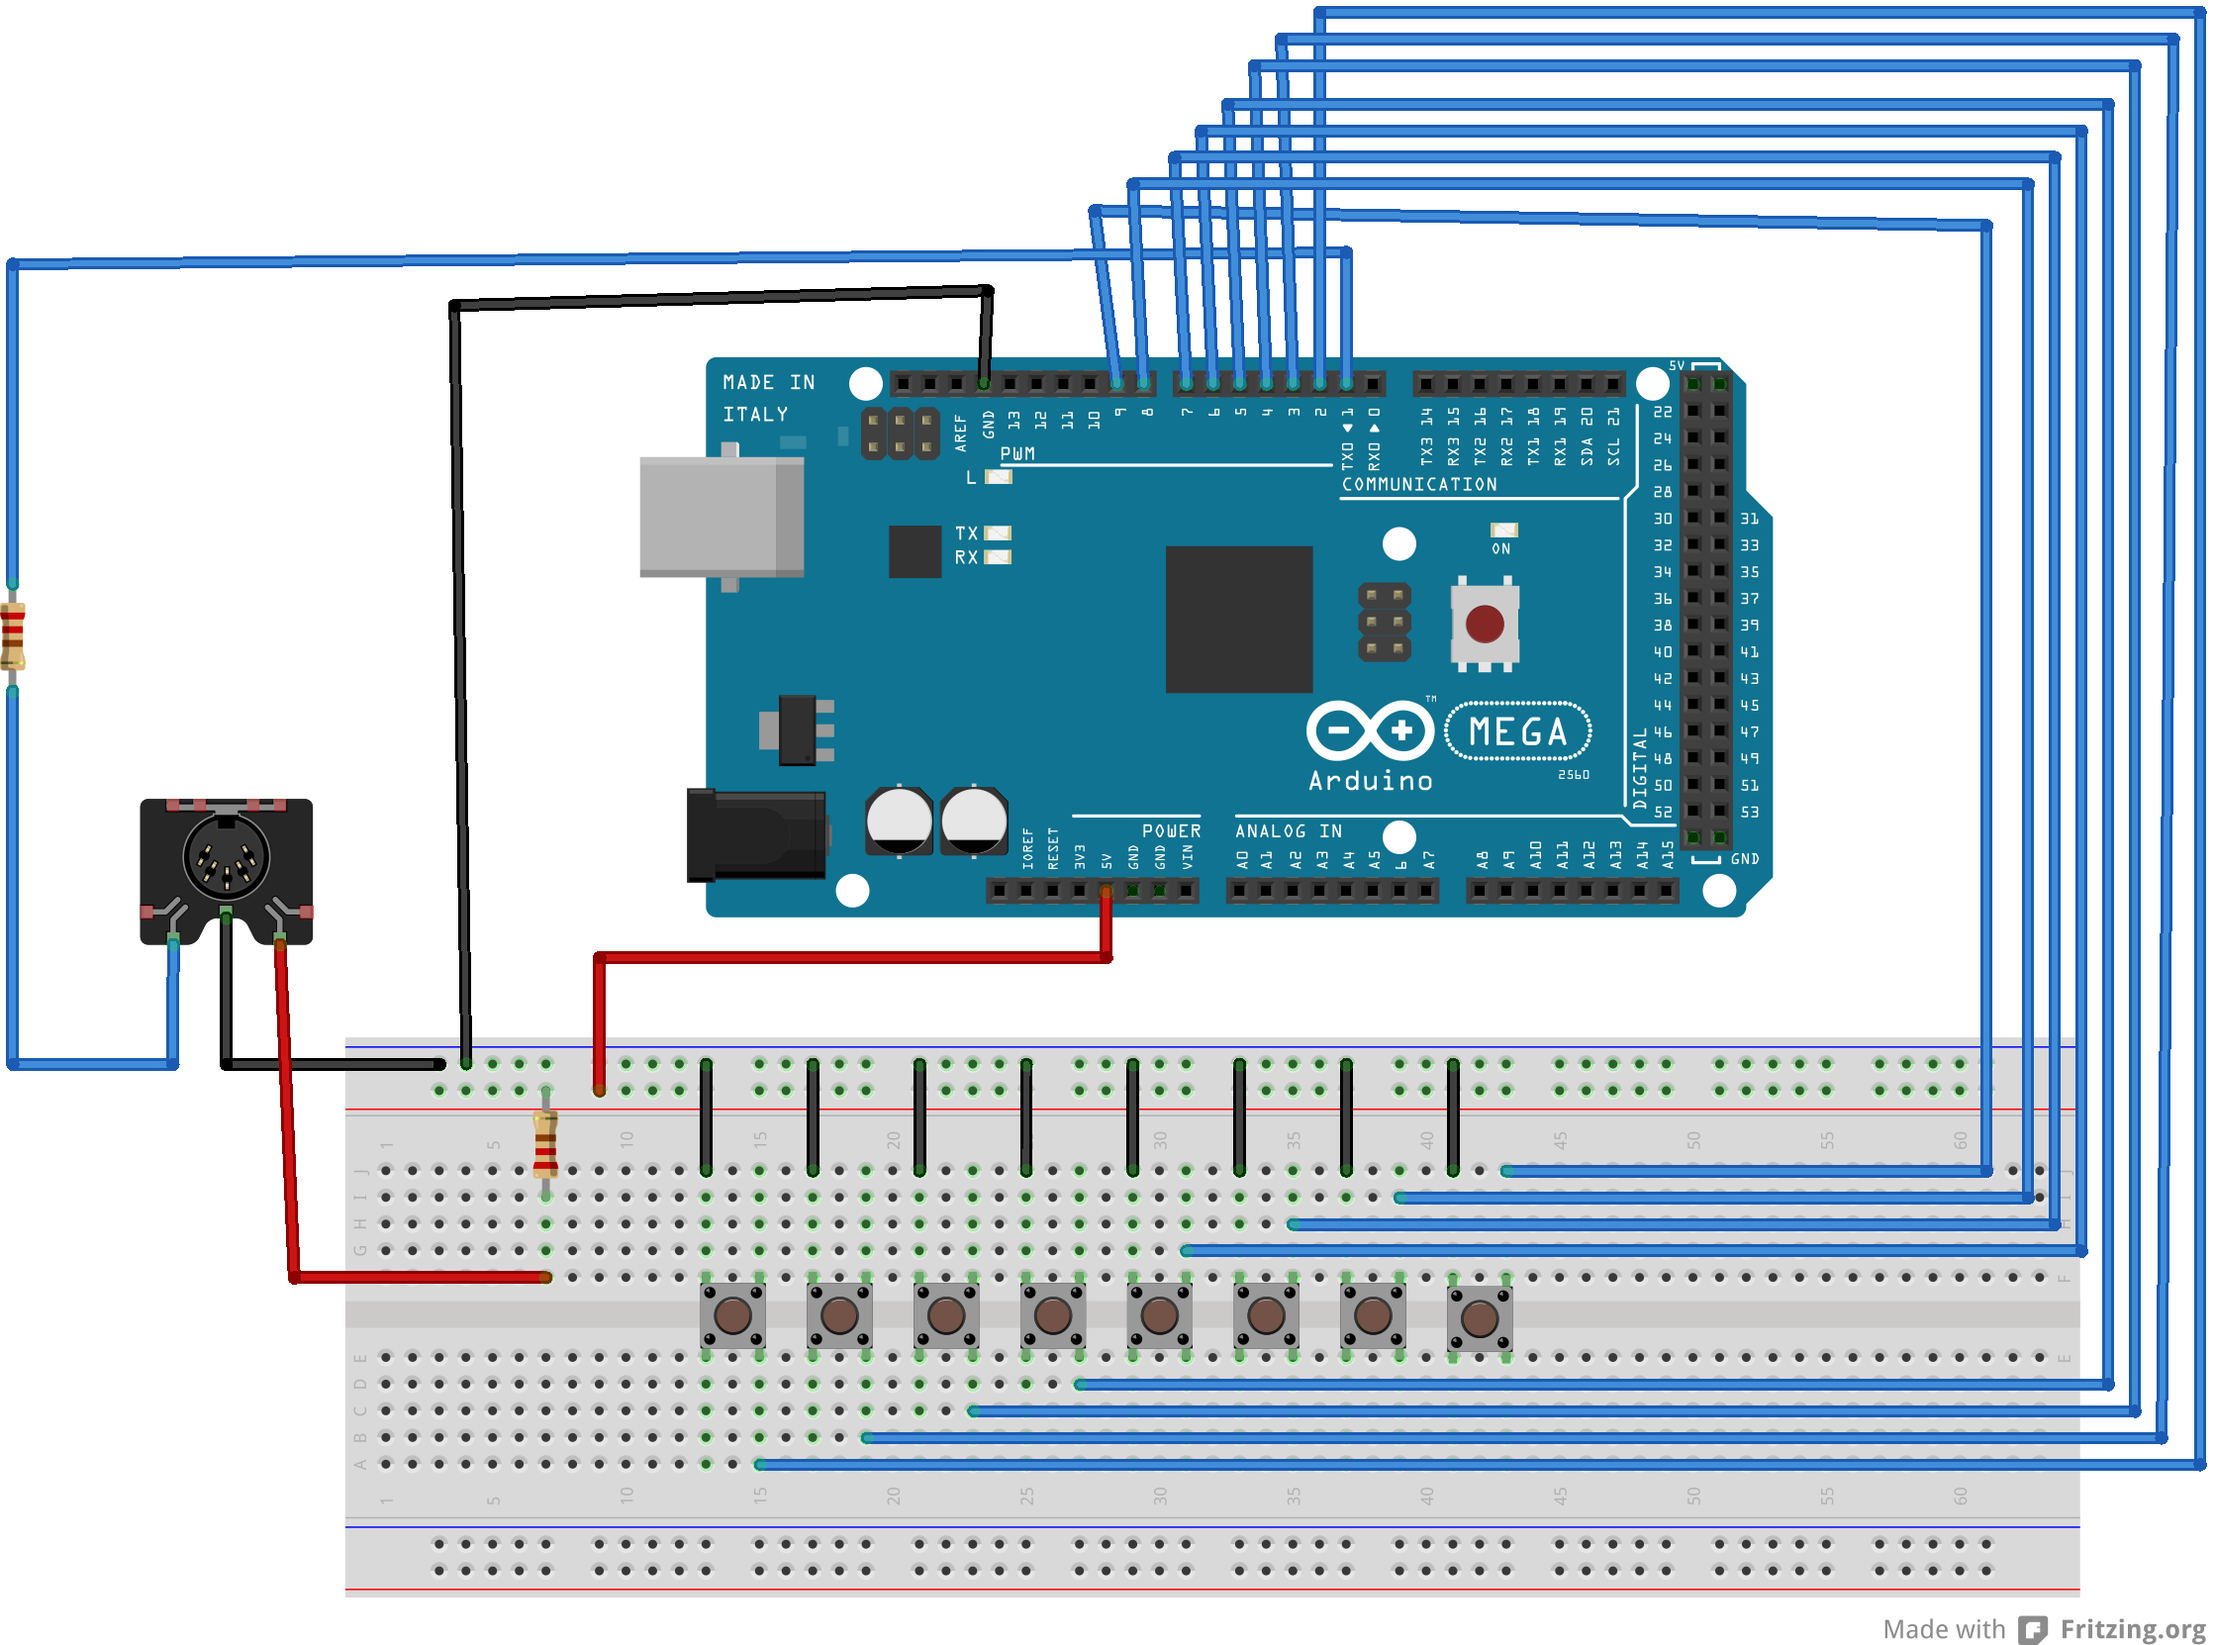
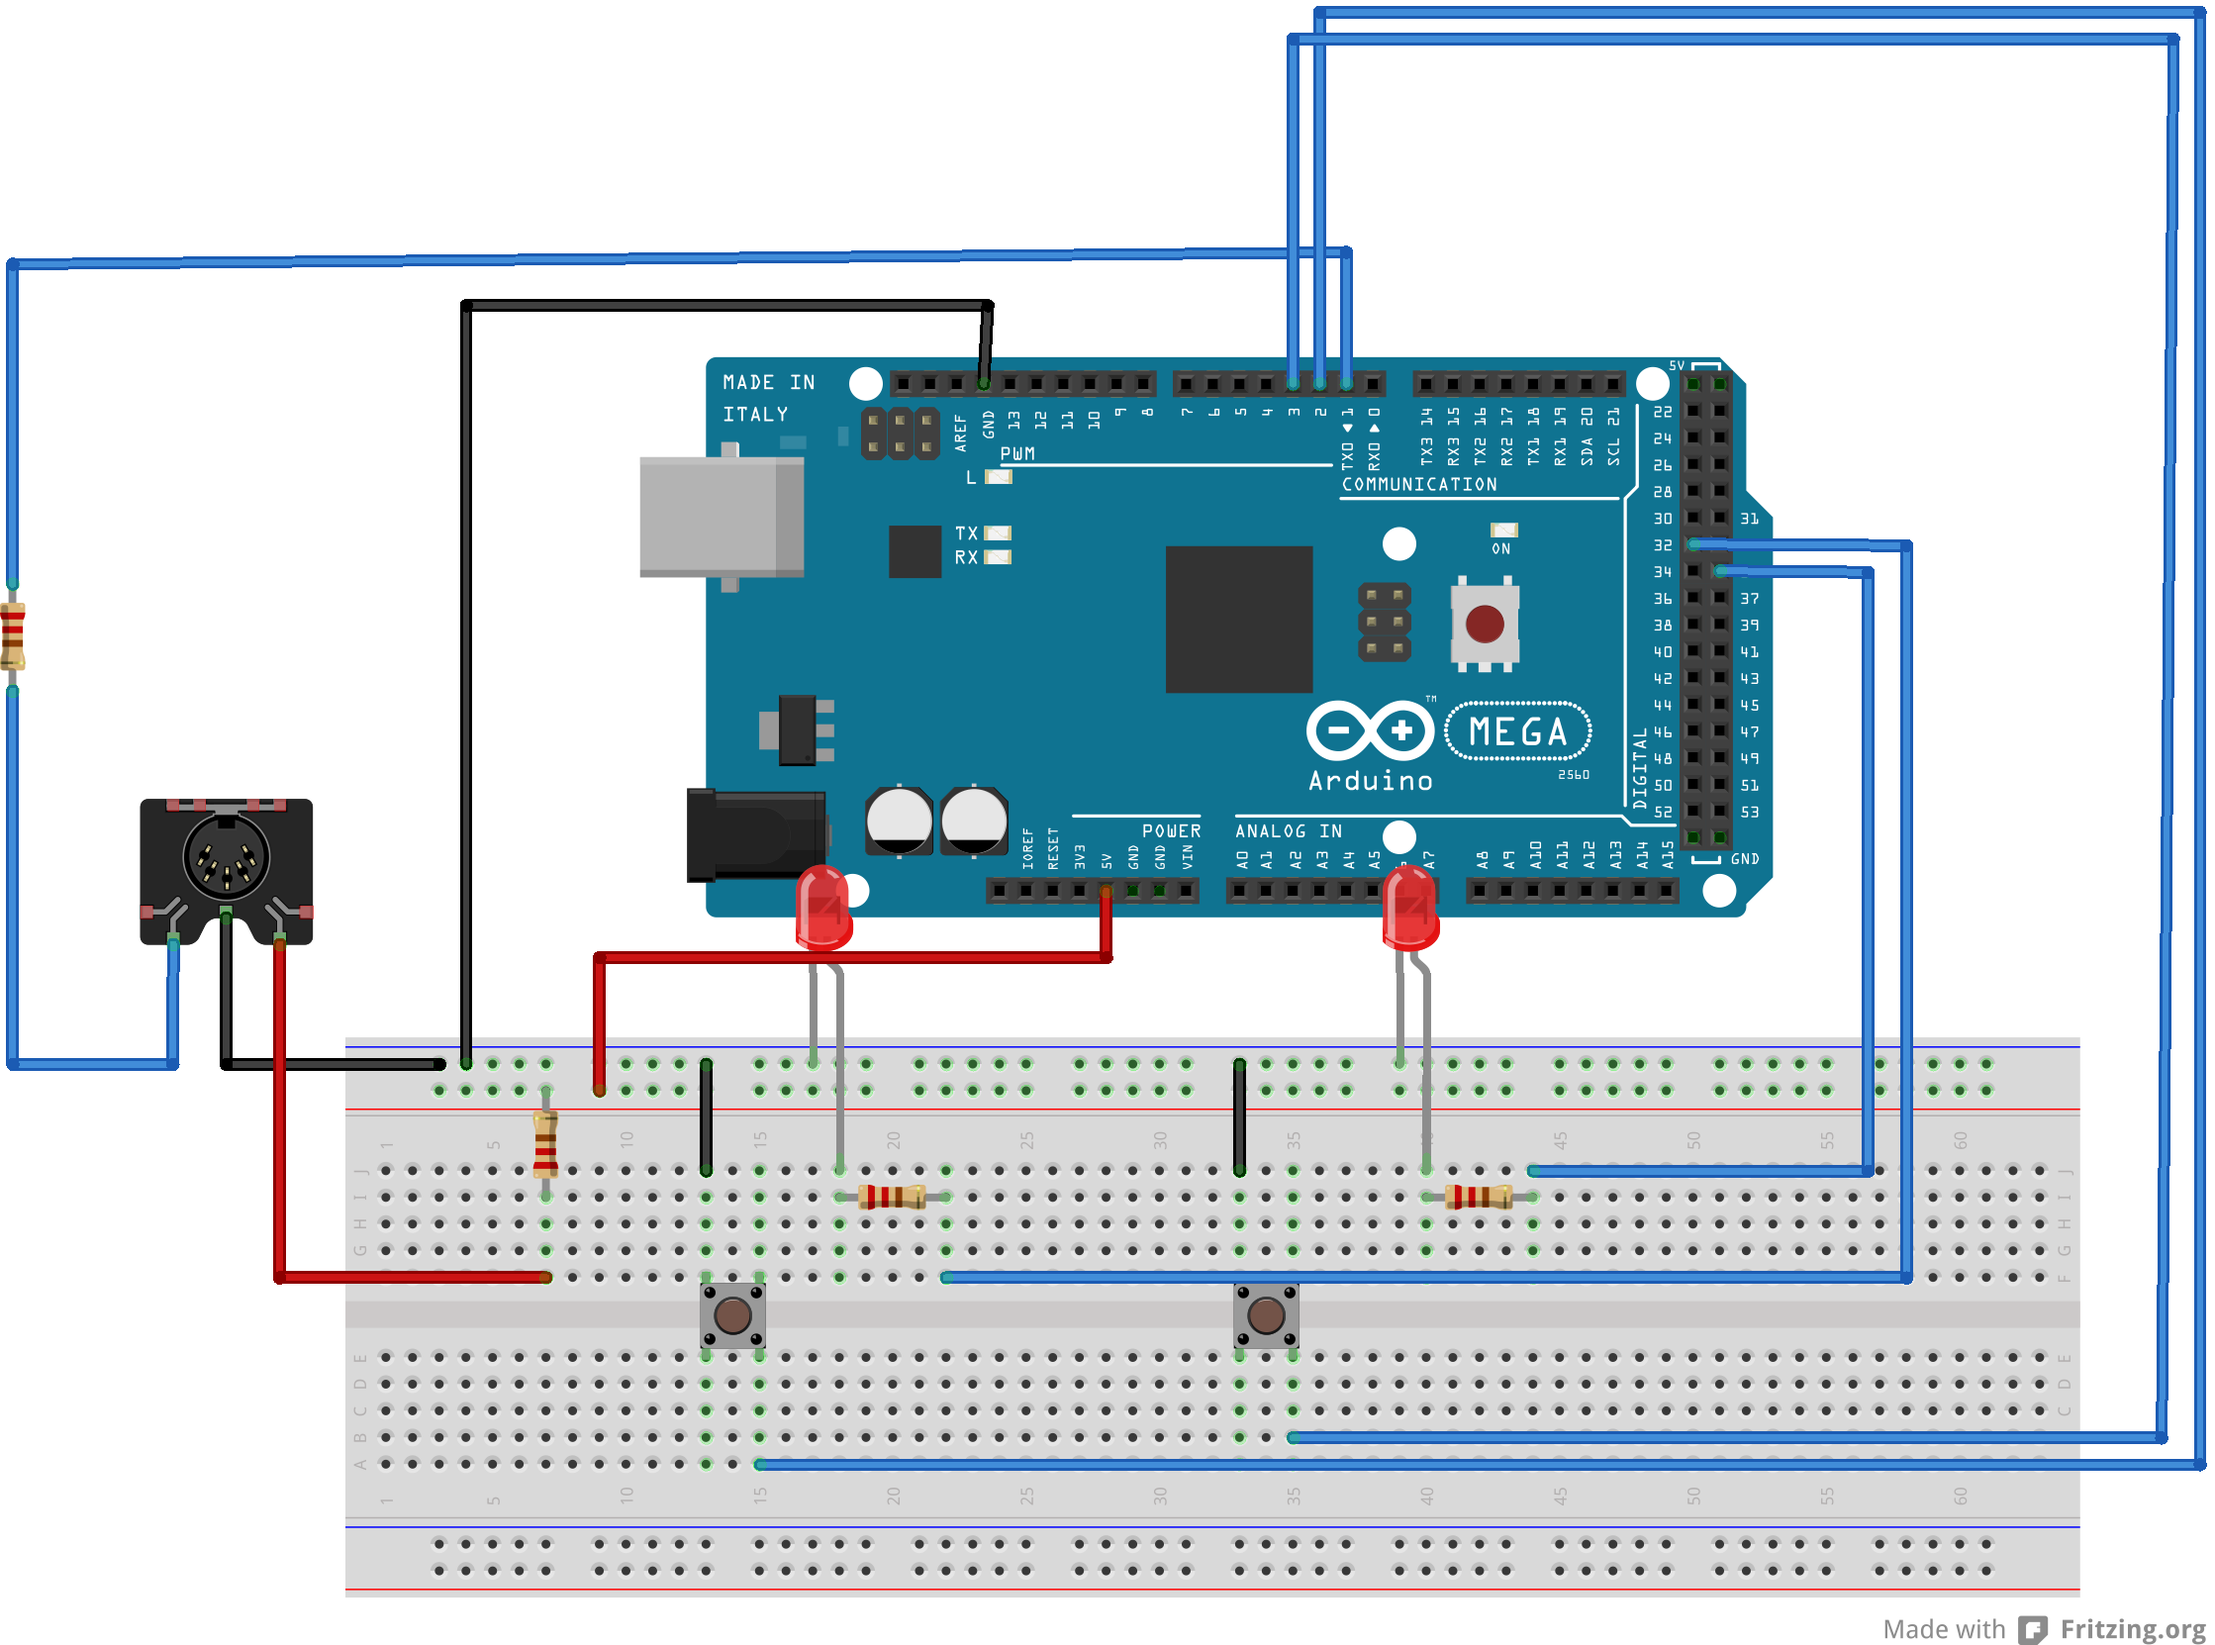
LEDs added in schematic

diff --git a/Button.cpp b/Button.cpp
@@ -61,8 +61,7 @@ Button::Button(byte    btnPin,           /** Pin-Number where the switch is conn
   
   
   // Set Pin-Mode für Switch and LED
-  pinMode(_btnPin, INPUT);
-  digitalWrite(_btnPin, INPUT_PULLUP);    // Pullup-Resistor
+  pinMode(_btnPin, INPUT_PULLUP);
   pinMode(_ledPin, OUTPUT);
 
 
